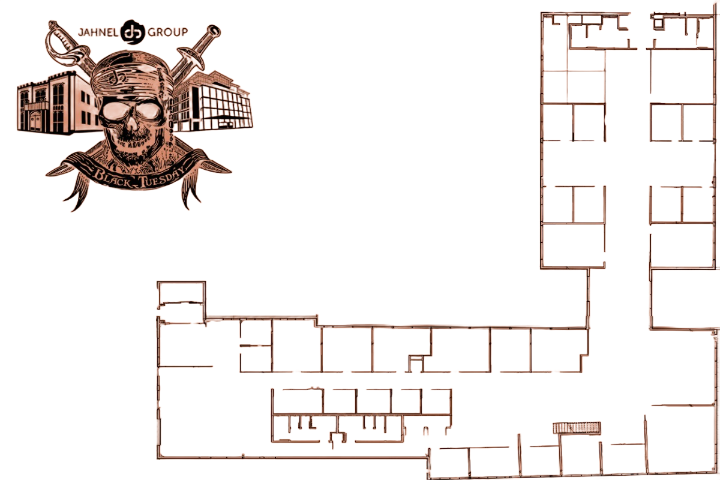
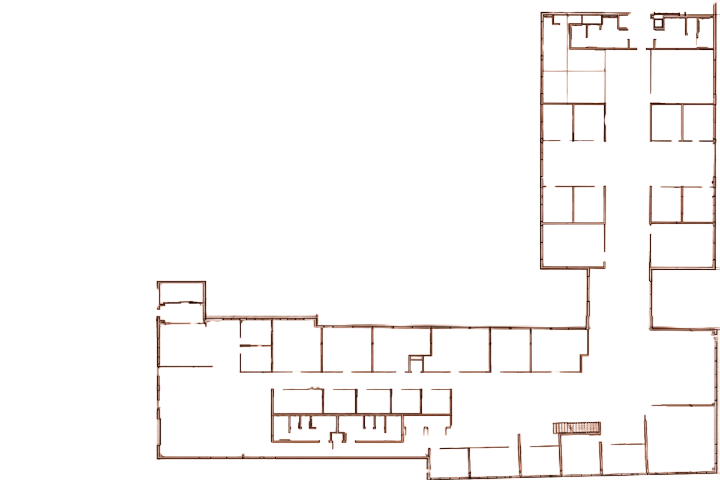
switched out background

Changed region(s): [[0.0, 0.0312, 0.3667, 0.4375]]

diff --git a/MarauderMapJG/script.js b/MarauderMapJG/script.js
@@ -54,9 +54,10 @@ window.onload = function () {
   ctx.drawImage(grayce_img, 670, 180);
   ctx.drawImage(darrin_img, 1100, 740);
 
-  window.requestAnimationFrame(drawZach)
-  window.requestAnimationFrame(drawAshley)
-  window.requestAnimationFrame(drawJory)
+  // window.requestAnimationFrame(drawJory)
+  // window.requestAnimationFrame(drawAshley)
+  // window.requestAnimationFrame(drawZach)
+  
 
 };
 
@@ -67,7 +68,7 @@ function drawAshley() {
   var myImgPos = {
     x: 200,
     y: 550,
-    width: 480,
+    width: 460,
     height: 200
   }
   function draw() {
@@ -93,7 +94,7 @@ function drawZach() {
   var myImgPos = {
     x: 530,
     y: 630,
-    width: 480,
+    width: 460,
     height: 200
   }
   function drawZach() {
@@ -117,10 +118,10 @@ function drawJory() {
   ctx = canvas.getContext("2d");
   var myImg = new Image();
   var myImgPos = {
-    x: 760,
+    x: 790,
     y: 450,
-    width: 480,
-    height: 300
+    width: 420,
+    height: 260
   }
   function drawJory() {
     myImg.onload = function () {
@@ -132,8 +133,10 @@ function drawJory() {
   function moveJoryImg() {
     ctx.clearRect(myImgPos.x, myImgPos.y, myImgPos.x + myImgPos.width, myImgPos.y +
       myImgPos.height);
-    myImgPos.y -= 5;
+    myImgPos.y -= 6;
   }
   setInterval(drawJory, 500);
   setInterval(moveJoryImg, 500);
 }
+
+

diff --git a/MarauderMapJG/styles.css b/MarauderMapJG/styles.css
@@ -1,7 +1,9 @@
 .page{
     width: 100vw;
     height: 100vh;
-    background-color: rgb(73, 11, 11);
+    background-image: url('./Untitled.png');
+    background-size: cover;
+    background-position: center;
     display: flex;
     justify-content: center;
 }
